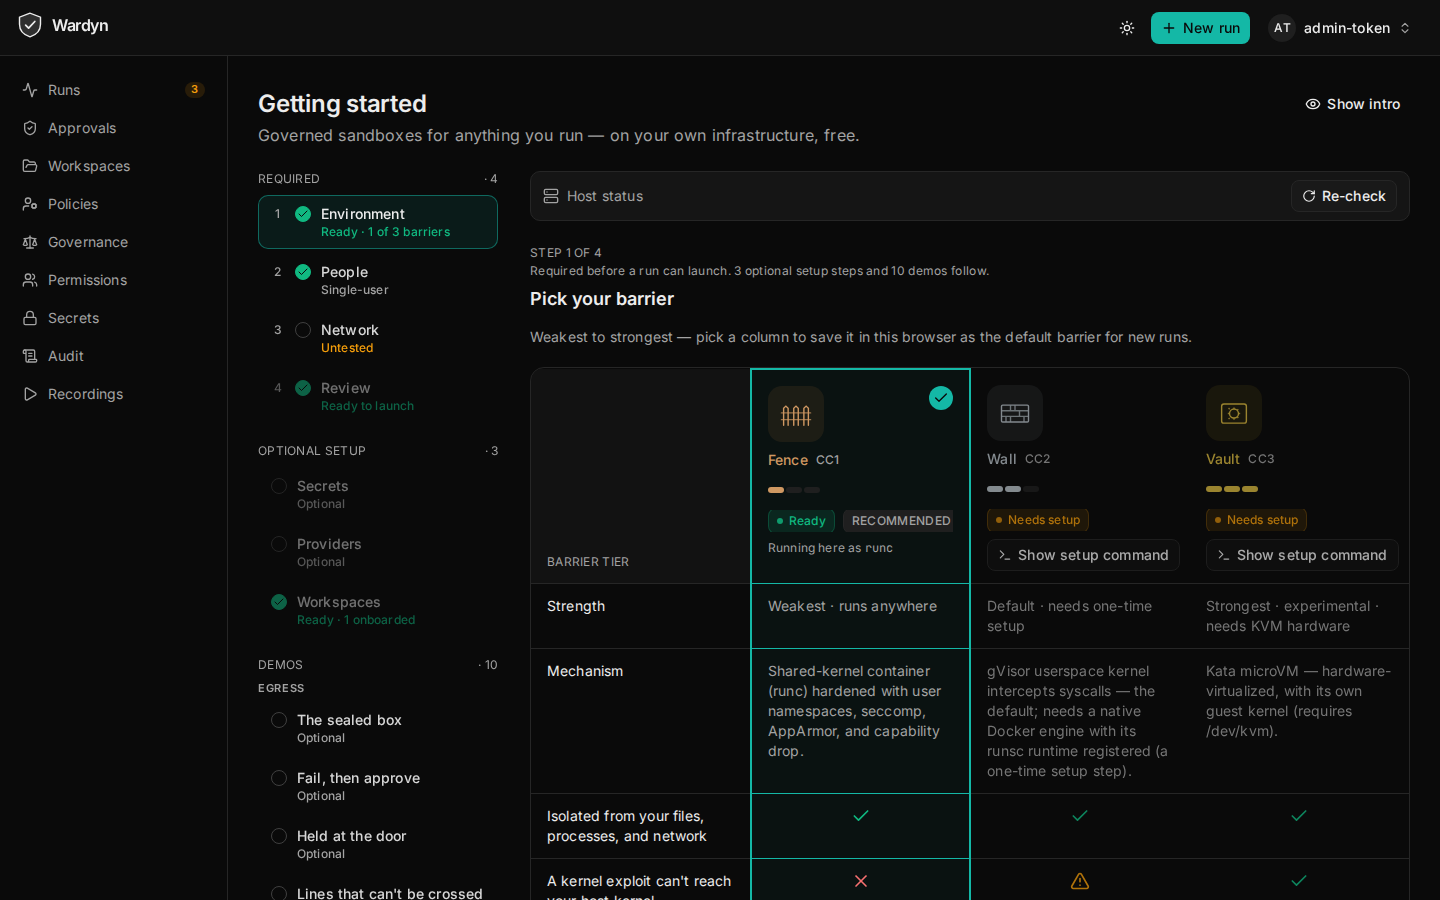
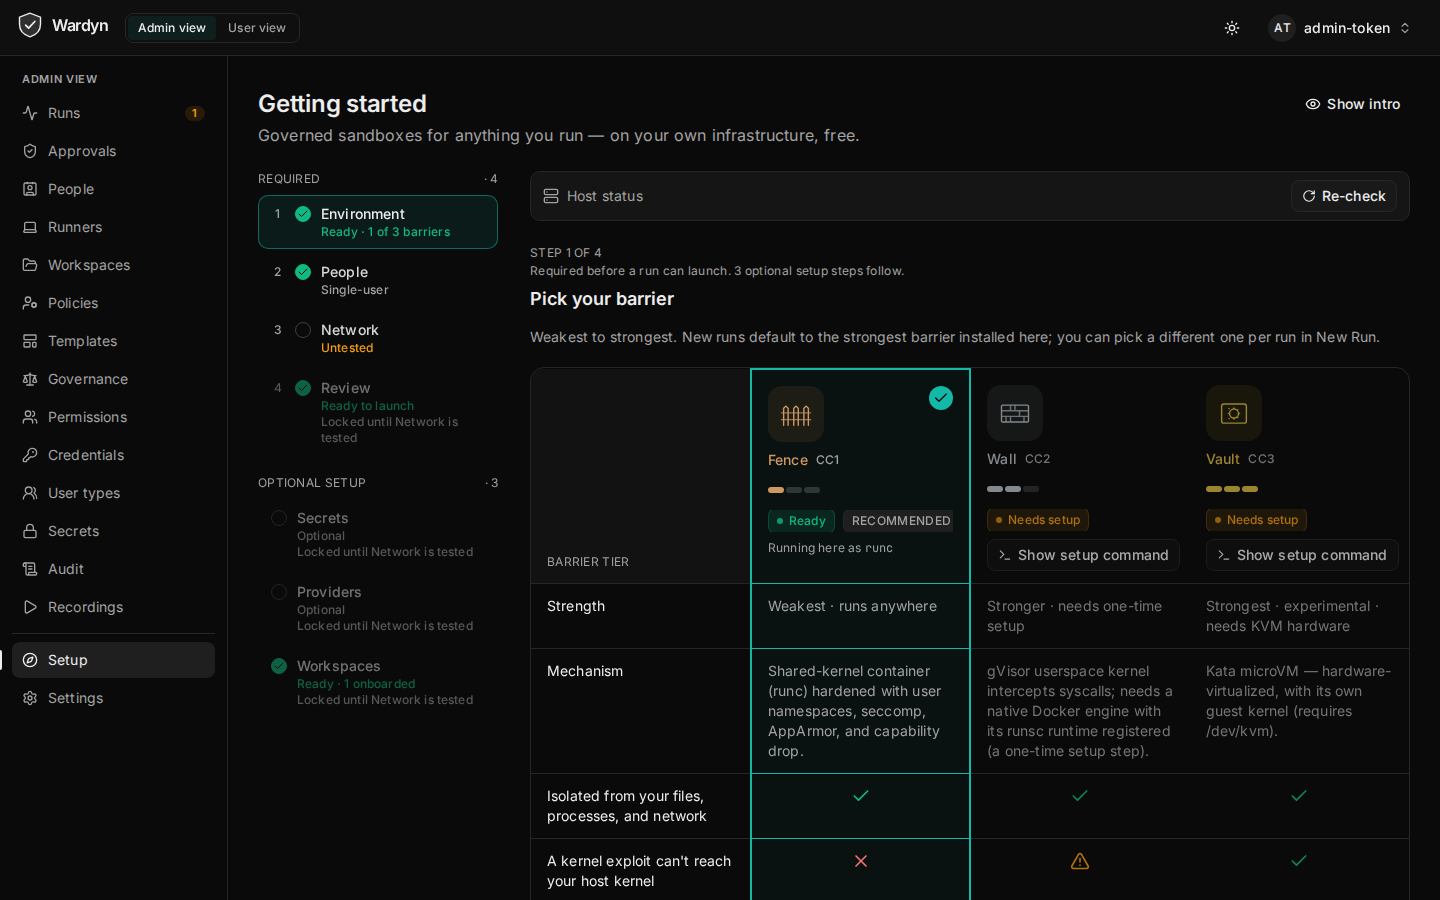
docs(img): re-shoot the getting-started and runs-board screenshots from the Admin view (#2818 #2820)
The spec photographed the member console (bare /setup and /), so the shots lacked the admin nav. Shoot /admin/setup and the Admin-view board, and caption the board for what it shows.

diff --git a/ui/e2e/screenshots/docs.spec.ts b/ui/e2e/screenshots/docs.spec.ts
@@ -165,9 +165,10 @@ test.describe("Docs screenshots", () => {
   // rather than "Incompatible here" (that split is a hardware fact).
   test("getting-started.png — barrier picker", async ({ page }) => {
     await serveReadySetupStatus(page);
-    // Straight to /setup rather than gotoConsole: this shot is the funnel, and
-    // the fixture only routes /setup/status.
-    await page.goto("/setup");
+    // Straight to /admin/setup (the Admin view is the /admin/* URL space; bare /setup is the
+    // member funnel) rather than gotoConsole: this shot is the funnel, and the fixture only
+    // routes /setup/status.
+    await page.goto("/admin/setup");
     await expect(page.getByRole("heading", { name: "Getting started", level: 1 })).toBeVisible();
     const matrix = page.getByRole("radiogroup", { name: "Barrier tier" });
     await expect(matrix.getByText("Ready", { exact: true })).toHaveCount(1);
@@ -182,7 +183,7 @@ test.describe("Docs screenshots", () => {
   test("runs-board.png — populated runs board", async ({ page }) => {
     await restagePresentableRuns(page);
     await serveReadySetupStatus(page);
-    await gotoConsole(page);
+    await gotoConsole(page, "admin");
     await expect(page.getByRole("heading", { name: "Runs", level: 1 })).toBeVisible();
     // Wait for the re-staged cards to render (first + last of the set).
     await expect(page.getByText("Fix flaky webhook retry test")).toBeVisible();

diff --git a/docs/TRY-IT.md b/docs/TRY-IT.md
@@ -130,7 +130,7 @@ wardyn run attach <id>
 <!-- Regenerated with `make screenshots` (docs.spec.ts) for 0.7.4. Freshness is
      flagged per-PR, as an advisory annotation from ci.yml's diagrams job
      (RELEASING.md "Prerequisites"), not by a release-cut step. -->
-![The runs board — every governed run with its state, barrier tier, and workspace](img/runs-board.png)
+![The runs board — every governed run with its state and workspace](img/runs-board.png)
 
 What you can verify live, even without keys:
 
